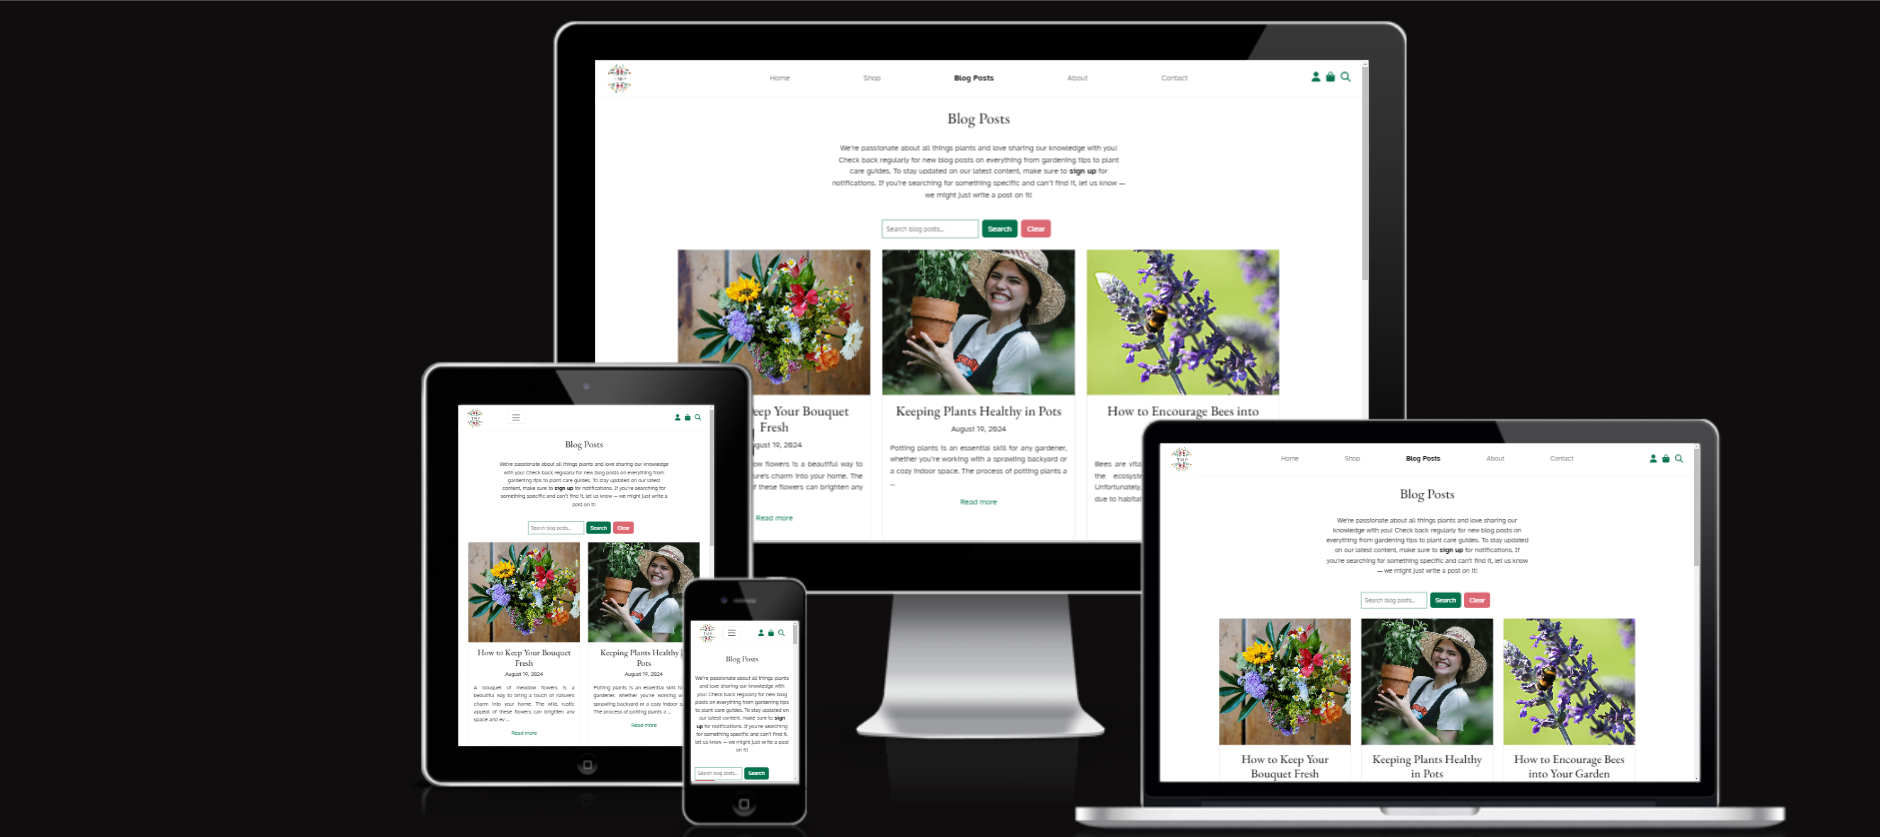
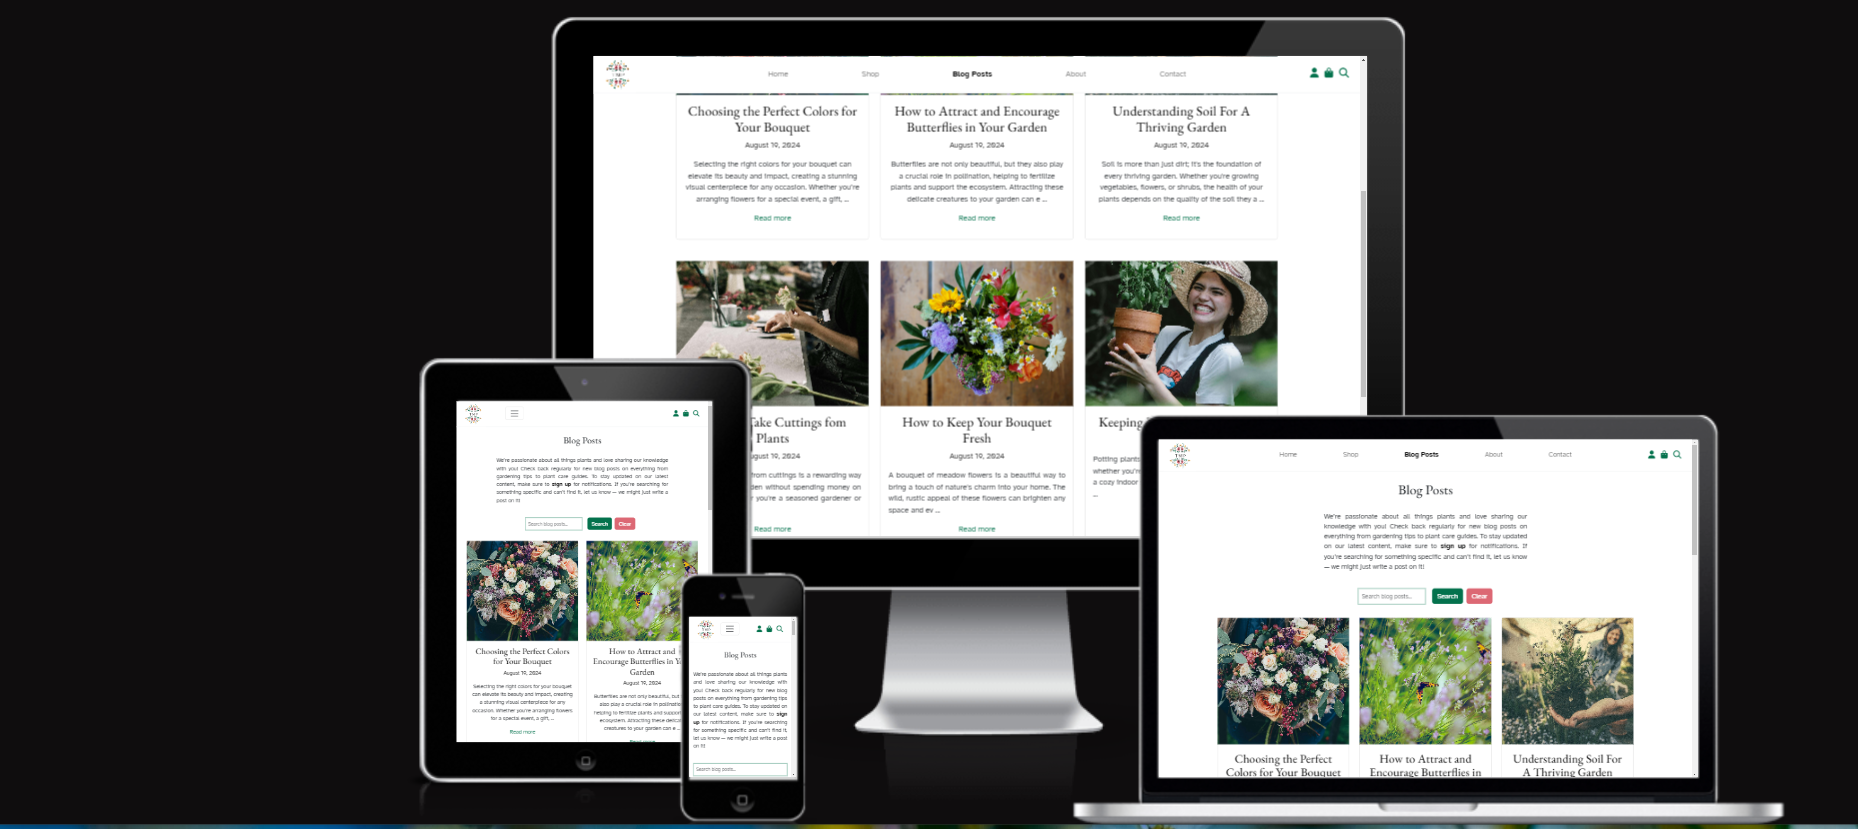
Blog app updated in readme.

Changed region(s): [[0.0, 0.0, 1.0, 1.0], [0.7804, 0.5127, 0.8116, 0.5428]]

diff --git a/README.md b/README.md
@@ -936,7 +936,9 @@ The code for the blog app was inspired by the Youtube videos series ['Create a b
 
 **All Posts**
 
-When users access the 'Blog Posts' page from the navigation bar, they are directed to the 'All Posts' page (posts.html). This page provides an overview of all the blog posts on the site, with each post presented in a Bootstrap card. The card displays the post's image, title, date, and a preview of the first 200 characters of the post body.
+When users access the 'Blog Posts' page from the navigation bar, they are directed to the 'All Posts' page (posts.html). They are greeted by an introductory paragraph that explains the purpose of the page. Logged-out users are encouraged to "Sign Up" to be the first to hear about new posts. Logged-in users are informed that they are already signed up and will receive updates about the latest posts. 
+
+There is then an overview of all the blog posts on the site, with each post presented in a Bootstrap card. The card displays the post's image, title, date, and a preview of the first 200 characters of the post body.
 
 To read the full post, users can either click on the image or select the 'Read More' link at the end of each card. If a blog post exceeds 200 characters, an ellipsis ("...") is added to indicate that there is more content available.
 
@@ -944,11 +946,13 @@ To enhance navigation, pagination controls are included at the bottom of the pag
 
 ![blog pagniation](documentation/final/blog-pagination.PNG)
 
-If a user wants to try and find a specific blog post they can search for it using the search box at the top of the page which contains the helper text 'search blog posts'. This search can be cleared using the 'Clear' button which will once again, show all the posts. 
+If a user wants to try and find a specific blog post they can search for it using the search box at the top of the page which contains the helper text 'search blog posts'. This search can be cleared using the 'Clear' button which will once again, show all the posts. Below shows a search for a bouquet. 
 
 ![blog search](documentation/final/blog-search.PNG)
 
-The 'Add Post' button on the right of the page is only seen by superusers
+The 'Add Post' button on the right of the page is only seen by superusers. Superusers can also 'Edit' or 'Delete' a post directly from this page. 
+
+![blog search](documentation/final/blog-home-editdelete.PNG)
 
 **Post Detail**
 
